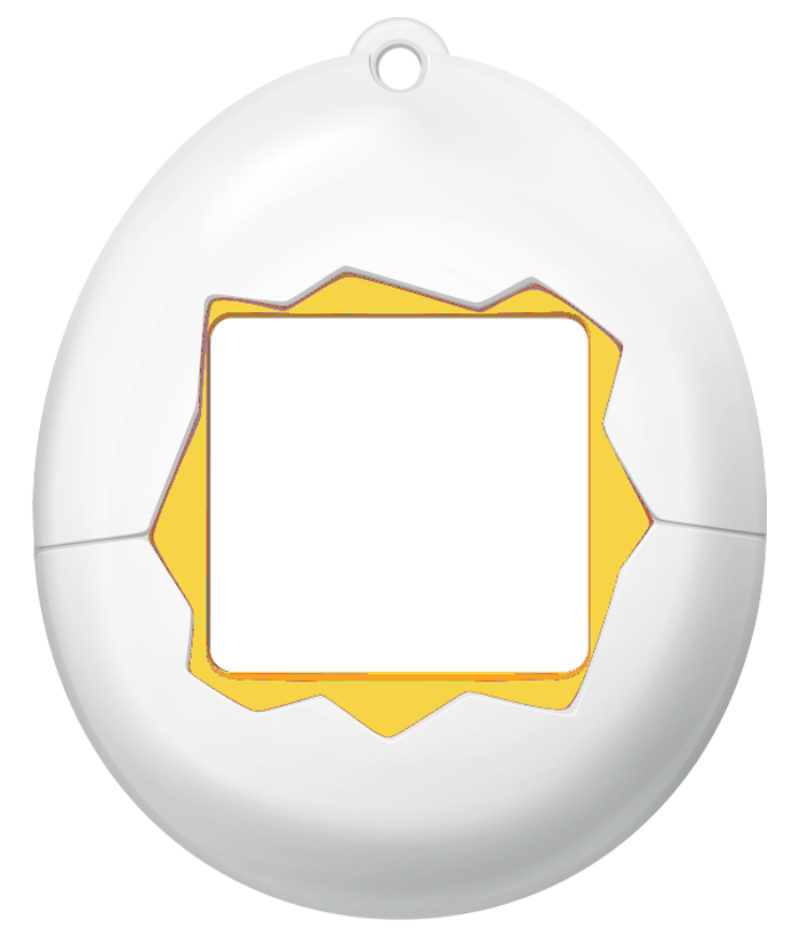
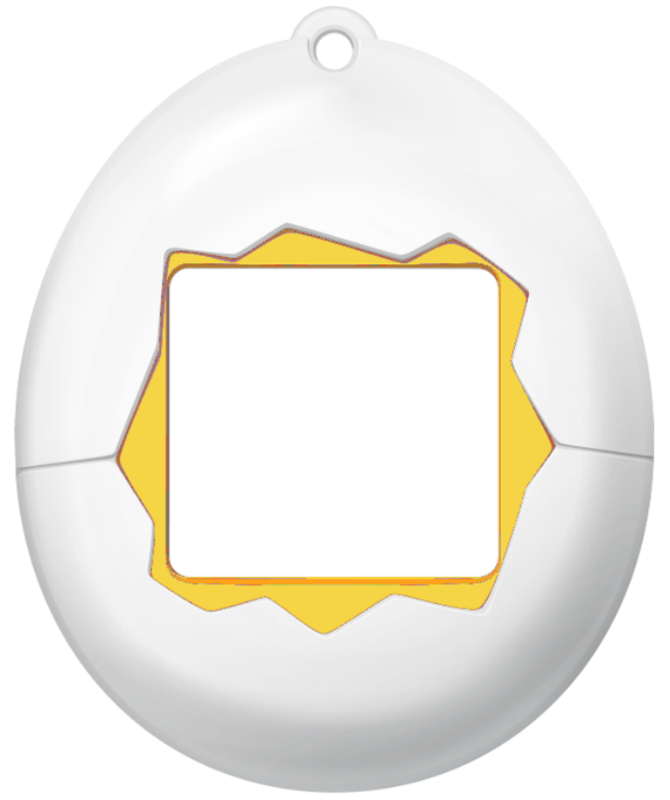
now looks good

diff --git a/main.py b/main.py
@@ -4,7 +4,7 @@ import os
 
 # верунлись границы комнат
 
-SIZE = WIDTH, HEIGHT = 800, 937
+SIZE = WIDTH, HEIGHT = 670, 800
 FPS = 60
 LEVELS = ['Baby', 'Teen', 'Adult', 'Elder']  # пока не знаю, пригодятся ли, но можно выводить как названия
 
@@ -21,23 +21,23 @@ class Buttons(pygame.sprite.Sprite):  # все кнопки (для каждой
         super().__init__(buttons_group, all_sprites)
         self.image = system_details_images[detail]
         if side == 'right':
-            self.rect = self.image.get_rect().move(500, 750)
+            self.rect = self.image.get_rect().move(400, 630)
         elif side == 'left':
-            self.rect = self.image.get_rect().move(200, 750)
+            self.rect = self.image.get_rect().move(160, 630)
 
 
 class Room(pygame.sprite.Sprite):  # комнаты пусть пока останутся так, пока не ввели интерактива
     def __init__(self, room_type):
         super().__init__(room_group, all_sprites)
         self.image = room_images[room_type]
-        self.rect = self.image.get_rect().move(60, 310)
+        self.rect = self.image.get_rect().move(60, 200)
 
 
 class Player(pygame.sprite.Sprite):
     def __init__(self, what_age):
         super().__init__(player_group, all_sprites)
         self.image = player_image[what_age]
-        self.rect = self.image.get_rect().move(380, 500)
+        self.rect = self.image.get_rect().move(280, 400)
 
 
 class Needs(pygame.sprite.Sprite):
@@ -54,7 +54,7 @@ class Needs(pygame.sprite.Sprite):
         self.image = pygame.Surface((70, 17))
         self.image.set_colorkey(0)
         self.image.convert()
-        self.rect = pygame.Rect(470, 330 + 20 * self.h, 70, 17)
+        self.rect = pygame.Rect(390, 280 + 20 * self.h, 70, 17)
         pygame.draw.rect(self.image, pygame.Color(self.color), ((0, 0), (70, 17)), 2)
         pygame.draw.rect(self.image, pygame.Color(self.color), ((0, 0), (70 / 100 * self.value, 17)))
 
